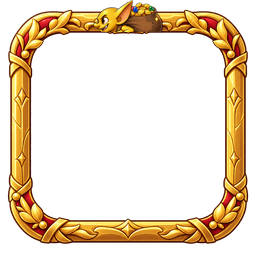
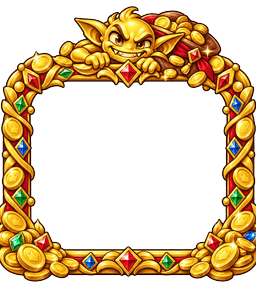
황금 고블린 테두리 전용 그림 (고블린이 위로 튀어나오게)
Claude-Session: https://claude.ai/code/session_011AypWsTwCXy5ahmKUPDYwt

diff --git a/sw.js b/sw.js
@@ -1,6 +1,6 @@
 /* 왕이 되는 그날까지 — 오프라인 실행용 서비스 워커 (tools/build_sw.py가 만듦, 직접 고치지 말 것) */
-const VERSION='82f3b64e70';
-const MAP={"assets/bg/ash_far.png":"abfdc7ad7e","assets/bg/ash_ground.png":"fbd17f65c8","assets/bg/ash_mid.png":"bf807812ec","assets/bg/ash_sky.png":"300201d8a2","assets/bg/canyon_far.png":"a9cc422fed","assets/bg/canyon_ground.png":"d5f682c619","assets/bg/canyon_mid.png":"e5e4324591","assets/bg/canyon_sky.png":"9c202a64b5","assets/bg/dusk_far.png":"f566503025","assets/bg/dusk_ground.png":"d4760254fd","assets/bg/dusk_mid.png":"e0989d31a1","assets/bg/dusk_sky.png":"c82f7b61d3","assets/bg/erdan_far.png":"d094fc7ce5","assets/bg/erdan_ground.png":"d3529606e8","assets/bg/erdan_mid.png":"c8ad3804c1","assets/bg/erdan_sky.png":"1e05f8731e","assets/bg/frost_far.png":"19dad2ce88","assets/bg/frost_ground.png":"3b9d5fb014","assets/bg/frost_mid.png":"69a80fb601","assets/bg/frost_sky.png":"955f847347","assets/characters/bron_attack.png":"3a0e0caf42","assets/characters/bron_hit.png":"84a7154e77","assets/characters/bron_idle.png":"61229dcc5b","assets/characters/bron_walk.png":"7dad3ba0f2","assets/characters/haral_attack.png":"978f3afc3f","assets/characters/haral_hit.png":"213362f649","assets/characters/haral_idle.png":"8bf0bf6d20","assets/characters/haral_walk.png":"39e8f29d2f","assets/characters/kael_attack.png":"dbd47d1705","assets/characters/kael_hit.png":"b0fbed0ea5","assets/characters/kael_idle.png":"29cdfa8cdc","assets/characters/kael_walk.png":"884487f656","assets/characters/margo_attack.png":"5801b486be","assets/characters/margo_hit.png":"1340b2a211","assets/characters/margo_idle.png":"d44c7fa00a","assets/characters/margo_walk.png":"86be37ce75","assets/characters/riel_attack.png":"08dc86ec82","assets/characters/riel_hit.png":"22eb8eaca6","assets/characters/riel_idle.png":"3cf3652c06","assets/characters/riel_walk.png":"d429ca1f71","assets/crops/crop_carrot_1.png":"f521f1b21a","assets/crops/crop_carrot_2.png":"96412cae61","assets/crops/crop_carrot_3.png":"0caab08be8","assets/crops/crop_carrot_4.png":"631ee0ae4c","assets/crops/crop_pumpkin_1.png":"17da246fd2","assets/crops/crop_pumpkin_2.png":"4bd771eea2","assets/crops/crop_pumpkin_3.png":"b0e0de0917","assets/crops/crop_pumpkin_4.png":"4199c151ff","assets/crops/crop_wheat_1.png":"b2c4cba4cd","assets/crops/crop_wheat_2.png":"9f43ac98c5","assets/crops/crop_wheat_3.png":"1980c09851","assets/crops/crop_wheat_4.png":"96d9a3ad42","assets/crops/plot_empty.png":"bf40b6ed45","assets/fonts/hahmlet-500.woff2":"2e21f9e04c","assets/fonts/hahmlet-700.woff2":"cff1c42d55","assets/fonts/plexkr-400.woff2":"2185fb2e58","assets/fonts/plexkr-600.woff2":"760cba76f5","assets/fx/fx_bees.png":"a77e742ff9","assets/fx/fx_coin.png":"83d65bf09a","assets/fx/fx_crit.png":"08659b9d49","assets/fx/fx_harpoon.png":"84a4e2831d","assets/fx/fx_heal.png":"9ceeb9de2e","assets/fx/fx_hit.png":"b9b3abbcaf","assets/fx/fx_skill_bron.png":"ecbc795a27","assets/fx/fx_skill_haral.png":"5e1499b5c7","assets/fx/fx_skill_kael.png":"81aabe4d33","assets/fx/fx_skill_margo.png":"ac0d3edc16","assets/fx/fx_skill_riel.png":"47270c84f8","assets/fx/fx_soup.png":"4b941315f8","assets/gem/gem_pack_1.png":"fbaa0f6542","assets/gem/gem_pack_2.png":"89bccb5745","assets/gem/gem_pack_3.png":"5b0c3058fd","assets/gem/gem_pack_4.png":"4b01620dbd","assets/gem/gem_pack_5.png":"3d29e897fe","assets/gem/gem_pack_6.png":"5164494272","assets/gem/ui_gem.png":"d72701ba7d","assets/icon/apple-touch-icon.png":"e50c9e6bf1","assets/icon/favicon-16.png":"2db4311b5d","assets/icon/favicon-32.png":"440db49613","assets/icon/icon-192.png":"441e2997bd","assets/icon/icon-512.png":"eda2be997b","assets/illust/illust_prologue.jpg":"9beba365b5","assets/illust/illust_retire.jpg":"74ff311a7f","assets/illust/illust_title.jpg":"006adb3633","assets/map/ash_boss.png":"a8be9e52dc","assets/map/ash_enemy.png":"d2262367aa","assets/map/canyon_boss.png":"6b7c17a49c","assets/map/canyon_enemy.png":"e2d7d4ebcd","assets/map/capital_locked.png":"c828d1f67a","assets/map/capital_open.png":"cee360a677","assets/map/dusk_boss.png":"dbf6d0b566","assets/map/dusk_enemy.png":"543dbb2608","assets/map/erdan_boss.png":"63719713d5","assets/map/erdan_enemy.png":"b3c3a8a4e9","assets/map/frost_boss.png":"6ec913cade","assets/map/frost_enemy.png":"87e0ecc588","assets/monsters/bat_shadow_attack.png":"733f900992","assets/monsters/bat_shadow_hit.png":"6c6777143a","assets/monsters/bat_shadow_walk.png":"4bdf69f59e","assets/monsters/boss_aldor_attack.png":"98d147de33","assets/monsters/boss_aldor_hit.png":"8ef2631028","assets/monsters/boss_aldor_walk.png":"dc30c29780","assets/monsters/boss_gromak_attack.png":"79580dc79a","assets/monsters/boss_gromak_hit.png":"8afa36ddae","assets/monsters/boss_gromak_walk.png":"508e49c3f2","assets/monsters/boss_ignis_attack.png":"b3792ddac0","assets/monsters/boss_ignis_hit.png":"39874ec8ec","assets/monsters/boss_ignis_walk.png":"745f03cf3c","assets/monsters/boss_morbas_attack.png":"b90b8b6dbd","assets/monsters/boss_morbas_hit.png":"b2e28fd059","assets/monsters/boss_morbas_walk.png":"c14aa48d24","assets/monsters/boss_seril_attack.png":"87c378c111","assets/monsters/boss_seril_hit.png":"8ee606e7e9","assets/monsters/boss_seril_walk.png":"630659de62","assets/monsters/goblin_gold_attack.png":"64a6f6f451","assets/monsters/goblin_gold_hit.png":"8b27eac950","assets/monsters/goblin_gold_walk.png":"c8a6e5c138","assets/monsters/goblin_pick_attack.png":"fa8e5c883f","assets/monsters/goblin_pick_hit.png":"066af0e709","assets/monsters/goblin_pick_walk.png":"e1f6d5d36a","assets/monsters/golem_steel_attack.png":"07e873d945","assets/monsters/golem_steel_hit.png":"67115529dc","assets/monsters/golem_steel_walk.png":"af9989172a","assets/monsters/imp_flame_attack.png":"9855e4f5e3","assets/monsters/imp_flame_hit.png":"ac4e28b83a","assets/monsters/imp_flame_walk.png":"6a0a835904","assets/monsters/scarecrow_cursed_attack.png":"19c1676923","assets/monsters/scarecrow_cursed_hit.png":"07f43ba22a","assets/monsters/scarecrow_cursed_walk.png":"0b7170d79c","assets/monsters/skeleton_frost_attack.png":"07648d88b9","assets/monsters/skeleton_frost_hit.png":"fcc108c10e","assets/monsters/skeleton_frost_walk.png":"74294ba7e2","assets/monsters/slime_ash_attack.png":"031d213acf","assets/monsters/slime_ash_hit.png":"ce2fa4d31b","assets/monsters/slime_ash_walk.png":"03ae7c49a4","assets/monsters/slime_plague_attack.png":"d4f6075abb","assets/monsters/slime_plague_hit.png":"bb74341a7e","assets/monsters/slime_plague_walk.png":"151b47bf12","assets/monsters/wolf_shadow_attack.png":"a6a83b34b8","assets/monsters/wolf_shadow_hit.png":"82a1af6e1d","assets/monsters/wolf_shadow_walk.png":"1251356e09","assets/monsters/wraith_frost_attack.png":"f5f41001fb","assets/monsters/wraith_frost_hit.png":"6348e92571","assets/monsters/wraith_frost_walk.png":"131c82c5ac","assets/portraits/portrait_aldor_idle.png":"07633d6214","assets/portraits/portrait_bron_idle.png":"eb202419e5","assets/portraits/portrait_bron_laugh.png":"067dda71a1","assets/portraits/portrait_gromak_idle.png":"b4510b3437","assets/portraits/portrait_haral_idle.png":"8057bc4036","assets/portraits/portrait_haral_laugh.png":"c213936ee8","assets/portraits/portrait_ignis_idle.png":"6bb8479476","assets/portraits/portrait_kael_flustered.png":"dcbbe42cd0","assets/portraits/portrait_kael_idle.png":"2faad1bb9c","assets/portraits/portrait_kael_smile.png":"880d0b870c","assets/portraits/portrait_kael_surprised.png":"f49dfef839","assets/portraits/portrait_luminar_angry.png":"406fff108e","assets/portraits/portrait_luminar_moved.png":"ac97db5b14","assets/portraits/portrait_luminar_proud.png":"5a078f2d6f","assets/portraits/portrait_margo_idle.png":"a390d73c66","assets/portraits/portrait_margo_laugh.png":"6a6d2380f8","assets/portraits/portrait_marta_idle.png":"d86a9956f4","assets/portraits/portrait_morbas_idle.png":"1ed03a2888","assets/portraits/portrait_pete_idle.png":"d14833cc91","assets/portraits/portrait_riel_idle.png":"31ca54792c","assets/portraits/portrait_riel_laugh.png":"40f5ce426b","assets/portraits/portrait_seril_idle.png":"52fb8d0eb1","assets/portraits/portrait_toby_idle.png":"ea6aef3ceb","assets/profile/badge_basket.png":"19ad639d98","assets/profile/badge_chest.png":"1997070288","assets/profile/badge_goblin.png":"a97a7db198","assets/profile/badge_horns.png":"eb77cb7f93","assets/profile/badge_king.png":"87c7d121ac","assets/profile/badge_pumpkin.png":"e191405060","assets/profile/badge_rebuild.png":"100b0d8092","assets/profile/badge_retire.png":"68a96ee52e","assets/profile/badge_stew.png":"c5615ba22c","assets/profile/frame_amethyst.png":"33596ec882","assets/profile/frame_goblin.png":"82f21f151a","assets/profile/frame_gold.png":"ac627fc7a3","assets/profile/frame_harvest.png":"1b0b11ae0b","assets/profile/frame_holy.png":"1af08de6e7","assets/profile/frame_royal.png":"e21f45a33a","assets/profile/frame_silver.png":"1db41ebcfa","assets/profile/frame_straw.png":"0810bf19b1","assets/profile/frame_wood.png":"99f33b8a46","assets/relic/relic_armor_1.png":"16d76a13c5","assets/relic/relic_armor_2.png":"87fb210070","assets/relic/relic_armor_3.png":"dd11fe2783","assets/relic/relic_boots_1.png":"d9a8c049ac","assets/relic/relic_boots_2.png":"efd27637b0","assets/relic/relic_boots_3.png":"5a612f2e27","assets/relic/relic_gloves_1.png":"5e8bee64d0","assets/relic/relic_gloves_2.png":"6795c922c5","assets/relic/relic_gloves_3.png":"67e14c6405","assets/relic/relic_helm_1.png":"455c59b819","assets/relic/relic_helm_2.png":"d18874e0e3","assets/relic/relic_helm_3.png":"cf800e2dad","assets/relic/relic_ring_1.png":"10edfdff76","assets/relic/relic_ring_2.png":"78a2cc0f51","assets/relic/relic_ring_3.png":"b2278ff8ee","assets/relic/relic_weapon_1.png":"dcc7c7540a","assets/relic/relic_weapon_2.png":"5fdd6cc2b3","assets/relic/relic_weapon_3.png":"f0135343bd","assets/skills/skill_bron.png":"08c7b35e76","assets/skills/skill_haral.png":"d392acbc14","assets/skills/skill_kael.png":"85c628e6a9","assets/skills/skill_margo.png":"1498522d74","assets/skills/skill_riel.png":"7aca6249d7","assets/ui/banner_capture.png":"cdce0b7ac7","assets/ui/bld_apiary.png":"1c86733003","assets/ui/bld_diner.png":"386a2fd60f","assets/ui/bld_dock.png":"f0409530e4","assets/ui/bld_farm.png":"ba8a24d8a9","assets/ui/bld_inn.png":"6857ad2ff5","assets/ui/bld_mine.png":"db914dbca5","assets/ui/boss_aura_commander.png":"3f9d291d94","assets/ui/boss_aura_lord.png":"785308d542","assets/ui/boss_mark_commander.png":"77e1e1b4bb","assets/ui/boss_mark_lord.png":"123c1b4432","assets/ui/buff_atk.png":"9a886d1ff6","assets/ui/buff_gold.png":"1a7ca0cf7c","assets/ui/buff_spd.png":"dae9c3f56c","assets/ui/frame_dialog.png":"1d1d83a399","assets/ui/frame_epic.png":"69a0cfc775","assets/ui/frame_legendary.png":"9a8f6852ac","assets/ui/frame_mythic.png":"83201ca46e","assets/ui/frame_normal.png":"01b42af2db","assets/ui/frame_popup.png":"20dc37c6ff","assets/ui/frame_rare.png":"6e60a9625d","assets/ui/frame_uncommon.png":"c1f9ee4e31","assets/ui/item_carrot.png":"9d51a5ea72","assets/ui/item_fish.png":"2f62e8797b","assets/ui/item_honey.png":"fbdf3d5e01","assets/ui/item_ore.png":"6eb3cdcb49","assets/ui/item_pumpkin.png":"074c67fcb2","assets/ui/item_wheat.png":"69fac25d82","assets/ui/logo.png":"2d22e7ca80","assets/ui/node_boss.png":"c79760401f","assets/ui/node_captured.png":"0a83211c2b","assets/ui/node_current.png":"c4a3ba8982","assets/ui/node_enemy.png":"55c59af8ea","assets/ui/rank_count.png":"f0e9a8bd8c","assets/ui/rank_duke.png":"80cb0fc6fa","assets/ui/rank_farmer.png":"493f3b96e1","assets/ui/rank_guard.png":"8a70f1c39c","assets/ui/rank_king.png":"a34e27d982","assets/ui/rank_knight.png":"78adabb17a","assets/ui/rank_lord.png":"77bb49441a","assets/ui/relic_chest.png":"9311479aa1","assets/ui/seed_carrot.png":"f21317e672","assets/ui/seed_pumpkin.png":"de9e24a972","assets/ui/seed_wheat.png":"bc87c11aee","assets/ui/slot_armor.png":"83816d046b","assets/ui/slot_boots.png":"01c1c89cdb","assets/ui/slot_gloves.png":"483d5aba63","assets/ui/slot_hat.png":"45c39d6e0c","assets/ui/slot_ring.png":"3707240c55","assets/ui/slot_weapon.png":"d76a948b02","assets/ui/tab_equipment.png":"cebacb923b","assets/ui/tab_map.png":"5178bc1d54","assets/ui/tab_party.png":"80412a0e78","assets/ui/tab_training.png":"f090ee0719","assets/ui/tab_village.png":"87cabcf9cb","assets/ui/ui_boss_mark.png":"8fe434b274","assets/ui/ui_gold.png":"12070643fb","assets/village/apiary_built.png":"001bb8753d","assets/village/apiary_ruin.png":"42a1170bd6","assets/village/diner_built.png":"50f46b5946","assets/village/diner_ruin.png":"e09f4a687d","assets/village/dock_built.png":"10894845e0","assets/village/dock_ruin.png":"975d3eea4f","assets/village/farm_built.png":"2331d98d5b","assets/village/farm_ruin.png":"6f4bde33f4","assets/village/inn_built.png":"75f5599f0b","assets/village/inn_ruin.png":"31dfd01982","assets/village/mine_built.png":"85b66e411e","assets/village/mine_ruin.png":"b773da1822","assets/village/village_bg.jpg":"d7046fd11a","favicon.ico":"48e226949a","manifest.webmanifest":"cba9531993"};
+const VERSION='e99ff48ce9';
+const MAP={"assets/bg/ash_far.png":"abfdc7ad7e","assets/bg/ash_ground.png":"fbd17f65c8","assets/bg/ash_mid.png":"bf807812ec","assets/bg/ash_sky.png":"300201d8a2","assets/bg/canyon_far.png":"a9cc422fed","assets/bg/canyon_ground.png":"d5f682c619","assets/bg/canyon_mid.png":"e5e4324591","assets/bg/canyon_sky.png":"9c202a64b5","assets/bg/dusk_far.png":"f566503025","assets/bg/dusk_ground.png":"d4760254fd","assets/bg/dusk_mid.png":"e0989d31a1","assets/bg/dusk_sky.png":"c82f7b61d3","assets/bg/erdan_far.png":"d094fc7ce5","assets/bg/erdan_ground.png":"d3529606e8","assets/bg/erdan_mid.png":"c8ad3804c1","assets/bg/erdan_sky.png":"1e05f8731e","assets/bg/frost_far.png":"19dad2ce88","assets/bg/frost_ground.png":"3b9d5fb014","assets/bg/frost_mid.png":"69a80fb601","assets/bg/frost_sky.png":"955f847347","assets/characters/bron_attack.png":"3a0e0caf42","assets/characters/bron_hit.png":"84a7154e77","assets/characters/bron_idle.png":"61229dcc5b","assets/characters/bron_walk.png":"7dad3ba0f2","assets/characters/haral_attack.png":"978f3afc3f","assets/characters/haral_hit.png":"213362f649","assets/characters/haral_idle.png":"8bf0bf6d20","assets/characters/haral_walk.png":"39e8f29d2f","assets/characters/kael_attack.png":"dbd47d1705","assets/characters/kael_hit.png":"b0fbed0ea5","assets/characters/kael_idle.png":"29cdfa8cdc","assets/characters/kael_walk.png":"884487f656","assets/characters/margo_attack.png":"5801b486be","assets/characters/margo_hit.png":"1340b2a211","assets/characters/margo_idle.png":"d44c7fa00a","assets/characters/margo_walk.png":"86be37ce75","assets/characters/riel_attack.png":"08dc86ec82","assets/characters/riel_hit.png":"22eb8eaca6","assets/characters/riel_idle.png":"3cf3652c06","assets/characters/riel_walk.png":"d429ca1f71","assets/crops/crop_carrot_1.png":"f521f1b21a","assets/crops/crop_carrot_2.png":"96412cae61","assets/crops/crop_carrot_3.png":"0caab08be8","assets/crops/crop_carrot_4.png":"631ee0ae4c","assets/crops/crop_pumpkin_1.png":"17da246fd2","assets/crops/crop_pumpkin_2.png":"4bd771eea2","assets/crops/crop_pumpkin_3.png":"b0e0de0917","assets/crops/crop_pumpkin_4.png":"4199c151ff","assets/crops/crop_wheat_1.png":"b2c4cba4cd","assets/crops/crop_wheat_2.png":"9f43ac98c5","assets/crops/crop_wheat_3.png":"1980c09851","assets/crops/crop_wheat_4.png":"96d9a3ad42","assets/crops/plot_empty.png":"bf40b6ed45","assets/fonts/hahmlet-500.woff2":"2e21f9e04c","assets/fonts/hahmlet-700.woff2":"cff1c42d55","assets/fonts/plexkr-400.woff2":"2185fb2e58","assets/fonts/plexkr-600.woff2":"760cba76f5","assets/fx/fx_bees.png":"a77e742ff9","assets/fx/fx_coin.png":"83d65bf09a","assets/fx/fx_crit.png":"08659b9d49","assets/fx/fx_harpoon.png":"84a4e2831d","assets/fx/fx_heal.png":"9ceeb9de2e","assets/fx/fx_hit.png":"b9b3abbcaf","assets/fx/fx_skill_bron.png":"ecbc795a27","assets/fx/fx_skill_haral.png":"5e1499b5c7","assets/fx/fx_skill_kael.png":"81aabe4d33","assets/fx/fx_skill_margo.png":"ac0d3edc16","assets/fx/fx_skill_riel.png":"47270c84f8","assets/fx/fx_soup.png":"4b941315f8","assets/gem/gem_pack_1.png":"fbaa0f6542","assets/gem/gem_pack_2.png":"89bccb5745","assets/gem/gem_pack_3.png":"5b0c3058fd","assets/gem/gem_pack_4.png":"4b01620dbd","assets/gem/gem_pack_5.png":"3d29e897fe","assets/gem/gem_pack_6.png":"5164494272","assets/gem/ui_gem.png":"d72701ba7d","assets/icon/apple-touch-icon.png":"e50c9e6bf1","assets/icon/favicon-16.png":"2db4311b5d","assets/icon/favicon-32.png":"440db49613","assets/icon/icon-192.png":"441e2997bd","assets/icon/icon-512.png":"eda2be997b","assets/illust/illust_prologue.jpg":"9beba365b5","assets/illust/illust_retire.jpg":"74ff311a7f","assets/illust/illust_title.jpg":"006adb3633","assets/map/ash_boss.png":"a8be9e52dc","assets/map/ash_enemy.png":"d2262367aa","assets/map/canyon_boss.png":"6b7c17a49c","assets/map/canyon_enemy.png":"e2d7d4ebcd","assets/map/capital_locked.png":"c828d1f67a","assets/map/capital_open.png":"cee360a677","assets/map/dusk_boss.png":"dbf6d0b566","assets/map/dusk_enemy.png":"543dbb2608","assets/map/erdan_boss.png":"63719713d5","assets/map/erdan_enemy.png":"b3c3a8a4e9","assets/map/frost_boss.png":"6ec913cade","assets/map/frost_enemy.png":"87e0ecc588","assets/monsters/bat_shadow_attack.png":"733f900992","assets/monsters/bat_shadow_hit.png":"6c6777143a","assets/monsters/bat_shadow_walk.png":"4bdf69f59e","assets/monsters/boss_aldor_attack.png":"98d147de33","assets/monsters/boss_aldor_hit.png":"8ef2631028","assets/monsters/boss_aldor_walk.png":"dc30c29780","assets/monsters/boss_gromak_attack.png":"79580dc79a","assets/monsters/boss_gromak_hit.png":"8afa36ddae","assets/monsters/boss_gromak_walk.png":"508e49c3f2","assets/monsters/boss_ignis_attack.png":"b3792ddac0","assets/monsters/boss_ignis_hit.png":"39874ec8ec","assets/monsters/boss_ignis_walk.png":"745f03cf3c","assets/monsters/boss_morbas_attack.png":"b90b8b6dbd","assets/monsters/boss_morbas_hit.png":"b2e28fd059","assets/monsters/boss_morbas_walk.png":"c14aa48d24","assets/monsters/boss_seril_attack.png":"87c378c111","assets/monsters/boss_seril_hit.png":"8ee606e7e9","assets/monsters/boss_seril_walk.png":"630659de62","assets/monsters/goblin_gold_attack.png":"64a6f6f451","assets/monsters/goblin_gold_hit.png":"8b27eac950","assets/monsters/goblin_gold_walk.png":"c8a6e5c138","assets/monsters/goblin_pick_attack.png":"fa8e5c883f","assets/monsters/goblin_pick_hit.png":"066af0e709","assets/monsters/goblin_pick_walk.png":"e1f6d5d36a","assets/monsters/golem_steel_attack.png":"07e873d945","assets/monsters/golem_steel_hit.png":"67115529dc","assets/monsters/golem_steel_walk.png":"af9989172a","assets/monsters/imp_flame_attack.png":"9855e4f5e3","assets/monsters/imp_flame_hit.png":"ac4e28b83a","assets/monsters/imp_flame_walk.png":"6a0a835904","assets/monsters/scarecrow_cursed_attack.png":"19c1676923","assets/monsters/scarecrow_cursed_hit.png":"07f43ba22a","assets/monsters/scarecrow_cursed_walk.png":"0b7170d79c","assets/monsters/skeleton_frost_attack.png":"07648d88b9","assets/monsters/skeleton_frost_hit.png":"fcc108c10e","assets/monsters/skeleton_frost_walk.png":"74294ba7e2","assets/monsters/slime_ash_attack.png":"031d213acf","assets/monsters/slime_ash_hit.png":"ce2fa4d31b","assets/monsters/slime_ash_walk.png":"03ae7c49a4","assets/monsters/slime_plague_attack.png":"d4f6075abb","assets/monsters/slime_plague_hit.png":"bb74341a7e","assets/monsters/slime_plague_walk.png":"151b47bf12","assets/monsters/wolf_shadow_attack.png":"a6a83b34b8","assets/monsters/wolf_shadow_hit.png":"82a1af6e1d","assets/monsters/wolf_shadow_walk.png":"1251356e09","assets/monsters/wraith_frost_attack.png":"f5f41001fb","assets/monsters/wraith_frost_hit.png":"6348e92571","assets/monsters/wraith_frost_walk.png":"131c82c5ac","assets/portraits/portrait_aldor_idle.png":"07633d6214","assets/portraits/portrait_bron_idle.png":"eb202419e5","assets/portraits/portrait_bron_laugh.png":"067dda71a1","assets/portraits/portrait_gromak_idle.png":"b4510b3437","assets/portraits/portrait_haral_idle.png":"8057bc4036","assets/portraits/portrait_haral_laugh.png":"c213936ee8","assets/portraits/portrait_ignis_idle.png":"6bb8479476","assets/portraits/portrait_kael_flustered.png":"dcbbe42cd0","assets/portraits/portrait_kael_idle.png":"2faad1bb9c","assets/portraits/portrait_kael_smile.png":"880d0b870c","assets/portraits/portrait_kael_surprised.png":"f49dfef839","assets/portraits/portrait_luminar_angry.png":"406fff108e","assets/portraits/portrait_luminar_moved.png":"ac97db5b14","assets/portraits/portrait_luminar_proud.png":"5a078f2d6f","assets/portraits/portrait_margo_idle.png":"a390d73c66","assets/portraits/portrait_margo_laugh.png":"6a6d2380f8","assets/portraits/portrait_marta_idle.png":"d86a9956f4","assets/portraits/portrait_morbas_idle.png":"1ed03a2888","assets/portraits/portrait_pete_idle.png":"d14833cc91","assets/portraits/portrait_riel_idle.png":"31ca54792c","assets/portraits/portrait_riel_laugh.png":"40f5ce426b","assets/portraits/portrait_seril_idle.png":"52fb8d0eb1","assets/portraits/portrait_toby_idle.png":"ea6aef3ceb","assets/profile/badge_basket.png":"19ad639d98","assets/profile/badge_chest.png":"1997070288","assets/profile/badge_goblin.png":"a97a7db198","assets/profile/badge_horns.png":"eb77cb7f93","assets/profile/badge_king.png":"87c7d121ac","assets/profile/badge_pumpkin.png":"e191405060","assets/profile/badge_rebuild.png":"100b0d8092","assets/profile/badge_retire.png":"68a96ee52e","assets/profile/badge_stew.png":"c5615ba22c","assets/profile/frame_amethyst.png":"33596ec882","assets/profile/frame_goblin.png":"206ee5a860","assets/profile/frame_gold.png":"ac627fc7a3","assets/profile/frame_harvest.png":"1b0b11ae0b","assets/profile/frame_holy.png":"1af08de6e7","assets/profile/frame_royal.png":"e21f45a33a","assets/profile/frame_silver.png":"1db41ebcfa","assets/profile/frame_straw.png":"0810bf19b1","assets/profile/frame_wood.png":"99f33b8a46","assets/relic/relic_armor_1.png":"16d76a13c5","assets/relic/relic_armor_2.png":"87fb210070","assets/relic/relic_armor_3.png":"dd11fe2783","assets/relic/relic_boots_1.png":"d9a8c049ac","assets/relic/relic_boots_2.png":"efd27637b0","assets/relic/relic_boots_3.png":"5a612f2e27","assets/relic/relic_gloves_1.png":"5e8bee64d0","assets/relic/relic_gloves_2.png":"6795c922c5","assets/relic/relic_gloves_3.png":"67e14c6405","assets/relic/relic_helm_1.png":"455c59b819","assets/relic/relic_helm_2.png":"d18874e0e3","assets/relic/relic_helm_3.png":"cf800e2dad","assets/relic/relic_ring_1.png":"10edfdff76","assets/relic/relic_ring_2.png":"78a2cc0f51","assets/relic/relic_ring_3.png":"b2278ff8ee","assets/relic/relic_weapon_1.png":"dcc7c7540a","assets/relic/relic_weapon_2.png":"5fdd6cc2b3","assets/relic/relic_weapon_3.png":"f0135343bd","assets/skills/skill_bron.png":"08c7b35e76","assets/skills/skill_haral.png":"d392acbc14","assets/skills/skill_kael.png":"85c628e6a9","assets/skills/skill_margo.png":"1498522d74","assets/skills/skill_riel.png":"7aca6249d7","assets/ui/banner_capture.png":"cdce0b7ac7","assets/ui/bld_apiary.png":"1c86733003","assets/ui/bld_diner.png":"386a2fd60f","assets/ui/bld_dock.png":"f0409530e4","assets/ui/bld_farm.png":"ba8a24d8a9","assets/ui/bld_inn.png":"6857ad2ff5","assets/ui/bld_mine.png":"db914dbca5","assets/ui/boss_aura_commander.png":"3f9d291d94","assets/ui/boss_aura_lord.png":"785308d542","assets/ui/boss_mark_commander.png":"77e1e1b4bb","assets/ui/boss_mark_lord.png":"123c1b4432","assets/ui/buff_atk.png":"9a886d1ff6","assets/ui/buff_gold.png":"1a7ca0cf7c","assets/ui/buff_spd.png":"dae9c3f56c","assets/ui/frame_dialog.png":"1d1d83a399","assets/ui/frame_epic.png":"69a0cfc775","assets/ui/frame_legendary.png":"9a8f6852ac","assets/ui/frame_mythic.png":"83201ca46e","assets/ui/frame_normal.png":"01b42af2db","assets/ui/frame_popup.png":"20dc37c6ff","assets/ui/frame_rare.png":"6e60a9625d","assets/ui/frame_uncommon.png":"c1f9ee4e31","assets/ui/item_carrot.png":"9d51a5ea72","assets/ui/item_fish.png":"2f62e8797b","assets/ui/item_honey.png":"fbdf3d5e01","assets/ui/item_ore.png":"6eb3cdcb49","assets/ui/item_pumpkin.png":"074c67fcb2","assets/ui/item_wheat.png":"69fac25d82","assets/ui/logo.png":"2d22e7ca80","assets/ui/node_boss.png":"c79760401f","assets/ui/node_captured.png":"0a83211c2b","assets/ui/node_current.png":"c4a3ba8982","assets/ui/node_enemy.png":"55c59af8ea","assets/ui/rank_count.png":"f0e9a8bd8c","assets/ui/rank_duke.png":"80cb0fc6fa","assets/ui/rank_farmer.png":"493f3b96e1","assets/ui/rank_guard.png":"8a70f1c39c","assets/ui/rank_king.png":"a34e27d982","assets/ui/rank_knight.png":"78adabb17a","assets/ui/rank_lord.png":"77bb49441a","assets/ui/relic_chest.png":"9311479aa1","assets/ui/seed_carrot.png":"f21317e672","assets/ui/seed_pumpkin.png":"de9e24a972","assets/ui/seed_wheat.png":"bc87c11aee","assets/ui/slot_armor.png":"83816d046b","assets/ui/slot_boots.png":"01c1c89cdb","assets/ui/slot_gloves.png":"483d5aba63","assets/ui/slot_hat.png":"45c39d6e0c","assets/ui/slot_ring.png":"3707240c55","assets/ui/slot_weapon.png":"d76a948b02","assets/ui/tab_equipment.png":"cebacb923b","assets/ui/tab_map.png":"5178bc1d54","assets/ui/tab_party.png":"80412a0e78","assets/ui/tab_training.png":"f090ee0719","assets/ui/tab_village.png":"87cabcf9cb","assets/ui/ui_boss_mark.png":"8fe434b274","assets/ui/ui_gold.png":"12070643fb","assets/village/apiary_built.png":"001bb8753d","assets/village/apiary_ruin.png":"42a1170bd6","assets/village/diner_built.png":"50f46b5946","assets/village/diner_ruin.png":"e09f4a687d","assets/village/dock_built.png":"10894845e0","assets/village/dock_ruin.png":"975d3eea4f","assets/village/farm_built.png":"2331d98d5b","assets/village/farm_ruin.png":"6f4bde33f4","assets/village/inn_built.png":"75f5599f0b","assets/village/inn_ruin.png":"31dfd01982","assets/village/mine_built.png":"85b66e411e","assets/village/mine_ruin.png":"b773da1822","assets/village/village_bg.jpg":"d7046fd11a","favicon.ico":"48e226949a","manifest.webmanifest":"cba9531993"};
 const PAGE='kd-page',FILES='kd-files';
 const base=self.registration.scope;
 const key=(p,h)=>new URL(p,base).href+'?v='+h;

diff --git a/index.html b/index.html
@@ -60,6 +60,7 @@ body{word-break:keep-all;overflow-wrap:break-word;line-break:strict;background:#
 .pfc b{font-size:12px;line-height:1.2;text-align:center;word-break:keep-all}.pfc small{font-size:10.5px;color:var(--muted);line-height:1.2;text-align:center;word-break:keep-all}
 .pfc.on small{color:var(--gold)}
 .pfc.lock .pfr{filter:grayscale(1) brightness(.6)}
+.pfr.tall{top:-15.625%!important;height:115.625%!important}
 .rareloot{display:flex;justify-content:center;margin:6px 0 10px}.rareloot img{width:132px;height:132px;filter:drop-shadow(0 0 14px rgba(255,210,60,.8));animation:rarepop .6s ease-out}
 @keyframes rarepop{0%{transform:scale(.3) rotate(-20deg);opacity:0}70%{transform:scale(1.12)}100%{transform:scale(1)}}
 .pfc.rare:not(.lock){box-shadow:0 0 10px rgba(255,210,60,.55)}
@@ -1496,7 +1497,8 @@ const PFRAMES=[
  {k:'amethyst',n:'자수정 장식',d:'전설 성유물 착용',ok:()=>Object.values(S.eq).some(it=>it&&it.g>=4)},
  {k:'holy',n:'성검의 가호',d:'첫 은퇴',ok:()=>(S.retires||0)>=1},
  {k:'royal',n:'붉은 왕관',d:'칭호 공작',ok:()=>rankIdx()>=5},
- {k:'goblin',n:'황금 고블린',d:'황금 고블린 희귀 전리품',ok:()=>false,rare:1}];
+ {k:'goblin',n:'황금 고블린',d:'황금 고블린 희귀 전리품',ok:()=>false,rare:1,tall:1}];
+const pfTall=k=>(PFRAMES.find(f=>f.k===k)||{}).tall?' tall':'';
 const stat=(k,n)=>{if(!S.stat)S.stat={};S.stat[k]=(S.stat[k]||0)+n},st=k=>(S.stat&&S.stat[k])||0;
 const BADGES=[
  {k:'pumpkin',n:'첫 달빛 호박',d:'달빛 호박 수확',ok:()=>st('pump')>=1},
@@ -1513,11 +1515,11 @@ const pfHas=k=>k==='wood'||!!(S.pfUnl&&S.pfUnl[k]);
 function pfCheck(){if(!S.pfUnl)S.pfUnl={};for(const f of PFRAMES){if(!S.pfUnl[f.k]&&f.ok()){S.pfUnl[f.k]=1;if(f.k!=='wood'&&S.started)toast('새 프로필 테두리 「'+f.n+'」을 얻었어요')}}
  if(!S.bdUnl)S.bdUnl={};for(const b of BADGES){if(!S.bdUnl[b.k]&&b.ok()){S.bdUnl[b.k]=1;if(S.started)toast('새 배지 「'+b.n+'」을 얻었어요')}}
  const hb=$('hBadge');if(hb){const bs=S.badge&&bdHas(S.badge)?'assets/profile/badge_'+S.badge+'.png':'';if(!bs)hb.hidden=true;else{hb.hidden=false;if(!hb.src.endsWith(bs))hb.src=bs}}
- const im=$('hFrame'),src='assets/profile/frame_'+(S.pf||'wood')+'.png';if(im&&!im.src.endsWith(src))im.src=src}
+ const im=$('hFrame'),src='assets/profile/frame_'+(S.pf||'wood')+'.png';if(im&&!im.src.endsWith(src)){im.src=src;im.className='pfr'+pfTall(S.pf||'wood')}}
 function profileSheet(){pfCheck();const cur=S.pf||'wood',ri=rankIdx();
- $('sheet').innerHTML=`<div class="eyebrow">프로필</div><div class="pfhead"><div class="pfbig"><canvas id="pfCv"></canvas><img class="pfr" src="assets/profile/frame_${cur}.png" alt=""></div><div class="pfinfo"><b>카엘${S.badge&&bdHas(S.badge)?`<img class="pfbd" src="assets/profile/badge_${S.badge}.png" alt="">`:''}</b><small>${RANKS[ri].n} · 전투력 ${fmt(power())}</small><small>최고 영지 ${Math.min(S.best,MAXLAND)} · 은퇴 ${S.retires||0}번</small></div></div>
+ $('sheet').innerHTML=`<div class="eyebrow">프로필</div><div class="pfhead"><div class="pfbig"><canvas id="pfCv"></canvas><img class="pfr${pfTall(cur)}" src="assets/profile/frame_${cur}.png" alt=""></div><div class="pfinfo"><b>카엘${S.badge&&bdHas(S.badge)?`<img class="pfbd" src="assets/profile/badge_${S.badge}.png" alt="">`:''}</b><small>${RANKS[ri].n} · 전투력 ${fmt(power())}</small><small>최고 영지 ${Math.min(S.best,MAXLAND)} · 은퇴 ${S.retires||0}번</small></div></div>
  <div class="sec">테두리 <small>${PFRAMES.filter(f=>pfHas(f.k)).length} / ${PFRAMES.length}</small></div>
- <div class="pfgrid">${PFRAMES.map(f=>{const has=pfHas(f.k);return`<button class="pfc${f.k===cur?' on':''}${has?'':' lock'}${f.rare?' rare':''}" data-pf="${f.k}"><span class="pv"><i></i><img class="pfr" src="assets/profile/frame_${f.k}.png" alt=""></span><b>${f.n}</b><small>${f.k===cur?'사용 중':has?'바꾸기':'🔒 '+f.d}</small></button>`}).join('')}</div>
+ <div class="pfgrid">${PFRAMES.map(f=>{const has=pfHas(f.k);return`<button class="pfc${f.k===cur?' on':''}${has?'':' lock'}${f.rare?' rare':''}" data-pf="${f.k}"><span class="pv"><i></i><img class="pfr${pfTall(f.k)}" src="assets/profile/frame_${f.k}.png" alt=""></span><b>${f.n}</b><small>${f.k===cur?'사용 중':has?'바꾸기':'🔒 '+f.d}</small></button>`}).join('')}</div>
  <div class="sec">대표 배지 <small>${BADGES.filter(b=>bdHas(b.k)).length} / ${BADGES.length}</small></div>
  <div class="pfgrid">${BADGES.map(b=>{const has=bdHas(b.k),on=S.badge===b.k;return`<button class="pfc bd${on?' on':''}${has?'':' lock'}${b.rare?' rare':''}" data-bd="${b.k}"><span class="pv"><img class="pfr" src="assets/profile/badge_${b.k}.png" alt=""></span><b>${b.n}</b><small>${on?'다는 중':has?'달기':'🔒 '+b.d}</small></button>`}).join('')}</div>
  <div class="acts"><button id="pfSet">⚙ 설정</button><button class="pri" id="mGo">닫기</button></div>`;
